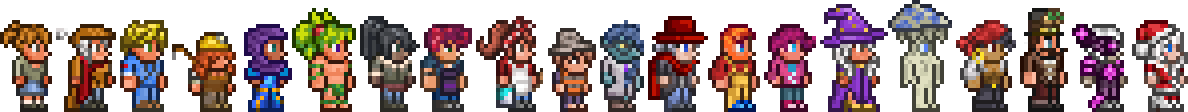
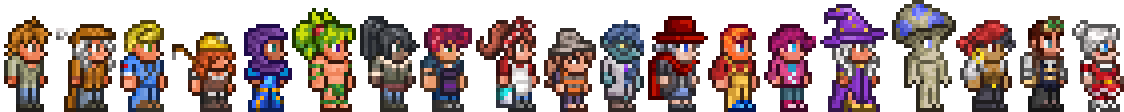
1.4 migration
+Added possible IL method needed
+Added new NPCs and used NPCHeadID

diff --git a/TownNPCData.cs b/TownNPCData.cs
@@ -4,6 +4,7 @@ using System;
 using System.Collections.Generic;
 using System.Linq;
 using Terraria;
+using Terraria.GameContent;
 using Terraria.ID;
 using Terraria.ModLoader;
 using Terraria.ModLoader.IO;
@@ -27,8 +28,10 @@ namespace GenderVariety
 			this.headIndex = headIndex;
 			this.ogGender = ogGender;
 			if (NPCID.Sets.ExtraTextureCount[type] != 0) {
-				this.npcTexture = Main.npcAltTextures[type][0];
+				this.npcTexture = TextureAssets.Npc[type].Value;
 				this.npcPartyTexture = Main.npcAltTextures[type][1];
+				TownNPCProfiles.Instance.GetProfile(type, out ITownNPCProfile profile);
+				this.npcPartyTexture = profile.GetTextureNPCShouldUse(Main.npc[0]).Value;
 				this.npcAltPartyTexture = ModContent.GetTexture($"GenderVariety/Resources/NPC/NPC_{type}_Alt_1");
 			}
 			else {
@@ -41,8 +44,8 @@ namespace GenderVariety
 			this.npcAltTexture_Head = ModContent.GetTexture($"GenderVariety/Resources/NPCHead/NPC_Head_{headIndex}");
 		}
 
-		internal static TownNPCInfo AddTownNPC(int type, int headIndex, int ogGender) {
-			return new TownNPCInfo(type, headIndex, ogGender);
+		internal static TownNPCInfo AddTownNPC(int type, int headIndex, int originalGender) {
+			return new TownNPCInfo(type, headIndex, originalGender);
 		}
 	}
 
@@ -62,30 +65,36 @@ namespace GenderVariety
 
 		private void InitializeTownNPCList() {
 			townNPCs = new List<TownNPCInfo>() {
-				TownNPCInfo.AddTownNPC(NPCID.Guide, 1, Male),
-				TownNPCInfo.AddTownNPC(NPCID.Merchant, 2, Male),
-				TownNPCInfo.AddTownNPC(NPCID.Nurse, 3, Female),
-				TownNPCInfo.AddTownNPC(NPCID.Demolitionist, 4, Male),
-				TownNPCInfo.AddTownNPC(NPCID.Dryad, 5, Female),
-				TownNPCInfo.AddTownNPC(NPCID.ArmsDealer, 6, Male),
-				TownNPCInfo.AddTownNPC(NPCID.Clothier, 7, Male),
-				TownNPCInfo.AddTownNPC(NPCID.Mechanic, 8, Female),
-				TownNPCInfo.AddTownNPC(NPCID.GoblinTinkerer, 9, Male),
-				TownNPCInfo.AddTownNPC(NPCID.Wizard, 10, Male),
-				TownNPCInfo.AddTownNPC(NPCID.SantaClaus, 11, Male),
-				TownNPCInfo.AddTownNPC(NPCID.Truffle, 12, Male),
-				TownNPCInfo.AddTownNPC(NPCID.Steampunker, 13, Female),
-				TownNPCInfo.AddTownNPC(NPCID.DyeTrader, 14, Male),
-				TownNPCInfo.AddTownNPC(NPCID.PartyGirl, 15, Female),
-				TownNPCInfo.AddTownNPC(NPCID.Cyborg, 16, Male),
-				TownNPCInfo.AddTownNPC(NPCID.Painter, 17, Male),
-				//TownNPCInfo.AddTownNPC(NPCID.WitchDoctor, 18, true),
-				TownNPCInfo.AddTownNPC(NPCID.Pirate, 19, Male),
-				TownNPCInfo.AddTownNPC(NPCID.Stylist, 20, Female),
-				//TownNPCInfo.AddTownNPC(NPCID.TravellingMerchant, 21, true),
-				TownNPCInfo.AddTownNPC(NPCID.Angler, 22, Male),
-				//TownNPCInfo.AddTownNPC(NPCID.TaxCollector, 23, true),
+				// Ordered by wiki
+				TownNPCInfo.AddTownNPC(NPCID.Guide, NPCHeadID.Guide, Male),
+				TownNPCInfo.AddTownNPC(NPCID.Merchant, NPCHeadID.Merchant, Male),
+				TownNPCInfo.AddTownNPC(NPCID.Nurse, NPCHeadID.Nurse, Female),
+				TownNPCInfo.AddTownNPC(NPCID.Demolitionist, NPCHeadID.Demolitionist, Male),
+				TownNPCInfo.AddTownNPC(NPCID.DyeTrader, NPCHeadID.DyeTrader, Male),
+				TownNPCInfo.AddTownNPC(NPCID.Angler, NPCHeadID.Angler, Male),
+				TownNPCInfo.AddTownNPC(NPCID.BestiaryGirl, NPCHeadID.BestiaryGirl, Female),
+				TownNPCInfo.AddTownNPC(NPCID.Dryad, NPCHeadID.Dryad, Female),
+				TownNPCInfo.AddTownNPC(NPCID.Painter, NPCHeadID.Painter, Male),
+				TownNPCInfo.AddTownNPC(NPCID.Golfer, NPCHeadID.Golfer, Male),
+				TownNPCInfo.AddTownNPC(NPCID.ArmsDealer, NPCHeadID.ArmsDealer, Male),
 				//TownNPCInfo.AddTownNPC(NPCID.DD2Bartender, 24, true),
+				TownNPCInfo.AddTownNPC(NPCID.Stylist, NPCHeadID.Stylist, Female),
+				TownNPCInfo.AddTownNPC(NPCID.GoblinTinkerer, NPCHeadID.GoblinTinkerer, Male),
+				//TownNPCInfo.AddTownNPC(NPCID.WitchDoctor, 18, true),
+				TownNPCInfo.AddTownNPC(NPCID.Clothier, NPCHeadID.Clothier, Male),
+				TownNPCInfo.AddTownNPC(NPCID.Mechanic, NPCHeadID.Mechanic, Female),
+				TownNPCInfo.AddTownNPC(NPCID.PartyGirl, NPCHeadID.PartyGirl, Female),
+
+				TownNPCInfo.AddTownNPC(NPCID.Wizard, NPCHeadID.Wizard, Male),
+				//TownNPCInfo.AddTownNPC(NPCID.TaxCollector, 23, true),
+				TownNPCInfo.AddTownNPC(NPCID.Truffle, NPCHeadID.Truffle, Male),
+				TownNPCInfo.AddTownNPC(NPCID.Pirate, NPCHeadID.Pirate, Male),
+				TownNPCInfo.AddTownNPC(NPCID.Steampunker, NPCHeadID.Steampunker, Female),
+				TownNPCInfo.AddTownNPC(NPCID.Cyborg, NPCHeadID.Cyborg, Male),
+				TownNPCInfo.AddTownNPC(NPCID.SantaClaus, NPCHeadID.SantaClaus, Male),
+				TownNPCInfo.AddTownNPC(NPCID.Princess, NPCHeadID.Princess, Female),
+
+				//TownNPCInfo.AddTownNPC(NPCID.TravellingMerchant, 21, true),
 			};
 
 			npcIsAltGender = new bool[townNPCs.Count]; // All are set to default (false)

diff --git a/GenderChangeWater.cs b/GenderChangeWater.cs
@@ -4,6 +4,7 @@ using Terraria;
 using System.Collections.Generic;
 using System.Linq;
 using Microsoft.Xna.Framework;
+using Terraria.Audio;
 
 namespace GenderVariety
 {
@@ -14,22 +15,22 @@ namespace GenderVariety
 		}
 
 		public override void SetDefaults() {
-			item.consumable = true;
-			item.damage = 20;
-			item.knockBack = 3f;
-			item.height = 20;
-			item.maxStack = 999;
-			item.noMelee = true;
-			item.noUseGraphic = true;
-			item.rare = ItemRarityID.Orange;
-			item.shoot = ModContent.ProjectileType<GenderChangeWater_Proj>();
-			item.shootSpeed = 9f;
-			item.useAnimation = 15;
-			item.UseSound = SoundID.Item1;
-			item.useStyle = ItemUseStyleID.SwingThrow;
-			item.useTime = 15;
-			item.value = 200;
-			item.width = 18;
+			Item.consumable = true;
+			Item.damage = 20;
+			Item.knockBack = 3f;
+			Item.height = 20;
+			Item.maxStack = 999;
+			Item.noMelee = true;
+			Item.noUseGraphic = true;
+			Item.rare = ItemRarityID.Orange;
+			Item.shoot = ModContent.ProjectileType<GenderChangeWater_Proj>();
+			Item.shootSpeed = 9f;
+			Item.useAnimation = 15;
+			Item.UseSound = SoundID.Item1;
+			Item.useStyle = ItemUseStyleID.Swing;
+			Item.useTime = 15;
+			Item.value = 200;
+			Item.width = 18;
 		}
 
 		public override void ModifyTooltips(List<TooltipLine> tooltips) {
@@ -41,11 +42,11 @@ namespace GenderVariety
 	public class GenderChangeWater_Proj : ModProjectile
 	{
 		public override void SetDefaults() {
-			projectile.aiStyle = 2;
-			projectile.friendly = true;
-			projectile.height = 14;
-			projectile.penetrate = 1;
-			projectile.width = 14;
+			Projectile.aiStyle = 2;
+			Projectile.friendly = true;
+			Projectile.height = 14;
+			Projectile.penetrate = 1;
+			Projectile.width = 14;
 		}
 
 		public override bool? CanHitNPC(NPC target) => GenderVariety.GetNPCIndex(target.type) >= 0;
@@ -71,15 +72,15 @@ namespace GenderVariety
 		}
 
 		public override void Kill(int timeLeft) {
-			Main.PlaySound(SoundID.Shatter, (int)projectile.position.X, (int)projectile.position.Y);
+			SoundEngine.PlaySound(SoundID.Shatter, (int)Projectile.position.X, (int)Projectile.position.Y);
 			for (int i = 0; i < 5; i++) {
 				// Broken glass
-				Dust.NewDust(new Vector2(projectile.position.X, projectile.position.Y), projectile.width, projectile.height, 13);
+				Dust.NewDust(new Vector2(Projectile.position.X, Projectile.position.Y), Projectile.width, Projectile.height, 13);
 			}
 			for (int j = 0; j < 30; j++) {
 				// Water Content
 				bool purple = j % 2 == 0 || j > 10;
-				int newDust = Dust.NewDust(projectile.position, projectile.width, projectile.height, j % 2 == 0 || j > 10 ? 98 : 101, 0f, -2f, 0, default, 1.1f);
+				int newDust = Dust.NewDust(Projectile.position, Projectile.width, Projectile.height, j % 2 == 0 || j > 10 ? 98 : 101, 0f, -2f, 0, default, 1.1f);
 				
 				Main.dust[newDust].alpha = 100;
 				ref float x = ref Main.dust[newDust].velocity.X;

diff --git a/TownNPCSetup.cs b/TownNPCSetup.cs
@@ -6,40 +6,45 @@ using Terraria.ModLoader.IO;
 
 namespace GenderVariety
 {
-	public class TownNPCWorld : ModWorld
+	public class TownNPCWorld : ModSystem
 	{
 		internal static List<TownNPCData> SavedData;
 
-		public override void Initialize() {
-			SavedData = new List<TownNPCData>();
-			for (int i = 0; i < GenderVariety.townNPCList.townNPCs.Count; i++) {
-				TownNPCInfo list = GenderVariety.townNPCList.townNPCs[i];
-				SavedData.Add(new TownNPCData(list.type, TownNPCSetup.Unassigned, "", ""));
+		public override void OnWorldLoad()
+		{
+			//TODO: Save occurs during worldgen??
+			if (SavedData == null) {
+				SavedData = new List<TownNPCData>();
+				for (int i = 0; i < GenderVariety.townNPCList.townNPCs.Count; i++) {
+					TownNPCInfo list = GenderVariety.townNPCList.townNPCs[i];
+					SavedData.Add(new TownNPCData(list.type, TownNPCSetup.Unassigned, "", ""));
+				}
 			}
 		}
 
-		public override TagCompound Save() {
-			TagCompound savedTag = new TagCompound {
-				{"SavedTownNPCData", SavedData}
-			};
-			return savedTag;
+		public override void SaveWorldData(TagCompound tag)
+		{
+			tag["SavedTownNPCData"] = SavedData;
 		}
 
-		public override void Load(TagCompound tag) {
+		public override void LoadWorldData(TagCompound tag)
+		{
 			SavedData = tag.Get<List<TownNPCData>>("SavedTownNPCData");
 		}
 	}
 
 	public class TownNPCs : GlobalNPC
 	{
-		public override void NPCLoot(NPC npc) { // Reset saved data here
+		public override void OnKill(NPC npc)
+		{
 			int index = GenderVariety.townNPCList.townNPCs.FindIndex(x => x.type == npc.type);
 			if (index == -1) return;
 			TownNPCWorld.SavedData[index] = new TownNPCData(npc.type, TownNPCSetup.Unassigned, "", "");
 		}
 
 		// Swapped genders go to respective statues
-		public override bool? CanGoToStatue(NPC npc, bool toKingStatue) {
+		public override bool? CanGoToStatue(NPC npc, bool toKingStatue)	
+		{
 			int index = GenderVariety.GetNPCIndex(npc.type);
 			if (index != -1 && npc.type != NPCID.SantaClaus && GenderVariety.townNPCList.npcIsAltGender[index]) {
 				TownNPCData npcData = TownNPCWorld.SavedData[index]; // Santa doesnt teleport in vanilla
@@ -54,7 +59,8 @@ namespace GenderVariety
 	
 	internal class TownNPCPlayer : ModPlayer
 	{
-		public override void OnEnterWorld(Player player) {
+		public override void OnEnterWorld(Player player)
+		{
 			// Setup textures when data is loaded
 			for (int i = 0; i < TownNPCWorld.SavedData.Count; i++) {
 				if (TownNPCWorld.SavedData[i].savedGender == TownNPCSetup.Unassigned) GenderVariety.townNPCList.npcIsAltGender[i] = false;

diff --git a/GenderVariety.cs b/GenderVariety.cs
@@ -23,9 +23,32 @@ namespace GenderVariety
 			townNPCList = new TownNPCSetup();
 			IL.Terraria.NPC.NewNPC += NPC_NewNPC;
 			IL_NPC_TypeName += ChangeNPCTypeName;
+
+			// Methods to use?
+			/// GiveTownUniqueDataToNPCsThatNeedIt <---- I think this is what I want!!
+			/// NewNPC
+			/// SpawnTownNPC
 		}
 
-		private void ChangeNPCTypeName(ILContext il) {
+		// The method in question:
+		private static void GiveTownUniqueDataToNPCsThatNeedIt(int Type, int nextNPC) {
+			if (NPC.TypeToDefaultHeadIndex(Type) != -1 || Type == 453) {
+				Main.npc[nextNPC].GivenName = NPC.getNewNPCName(Type);
+				if (TownNPCProfiles.Instance.GetProfile(Type, out var profile)) {
+					Main.npc[nextNPC].townNpcVariationIndex = profile.RollVariation();
+					Main.npc[nextNPC].GivenName = profile.GetNameForVariant(Main.npc[nextNPC]);
+				}
+				Main.npc[nextNPC].needsUniqueInfoUpdate = true;
+			}
+
+			// Basically insert my special...
+			Main.npc[nextNPC].TypeName;
+			// ... for the Party Girl (Party Boy) and Santa Claus (Mrs. Claus), with translation keys of course
+
+			Main.npc[nextNPC].needsUniqueInfoUpdate = true; // should be added afterwards?
+		}
+
+		private void ChangeNPCTypeName(IL.Terraria.NPC.NewNPC newNPC, ILContext il) {
 			ILCursor c = new ILCursor(il);
 			if (!c.TryGotoNext(i => i.MatchRet())) return;
 			c.Emit(OpCodes.Ldarg_0);
